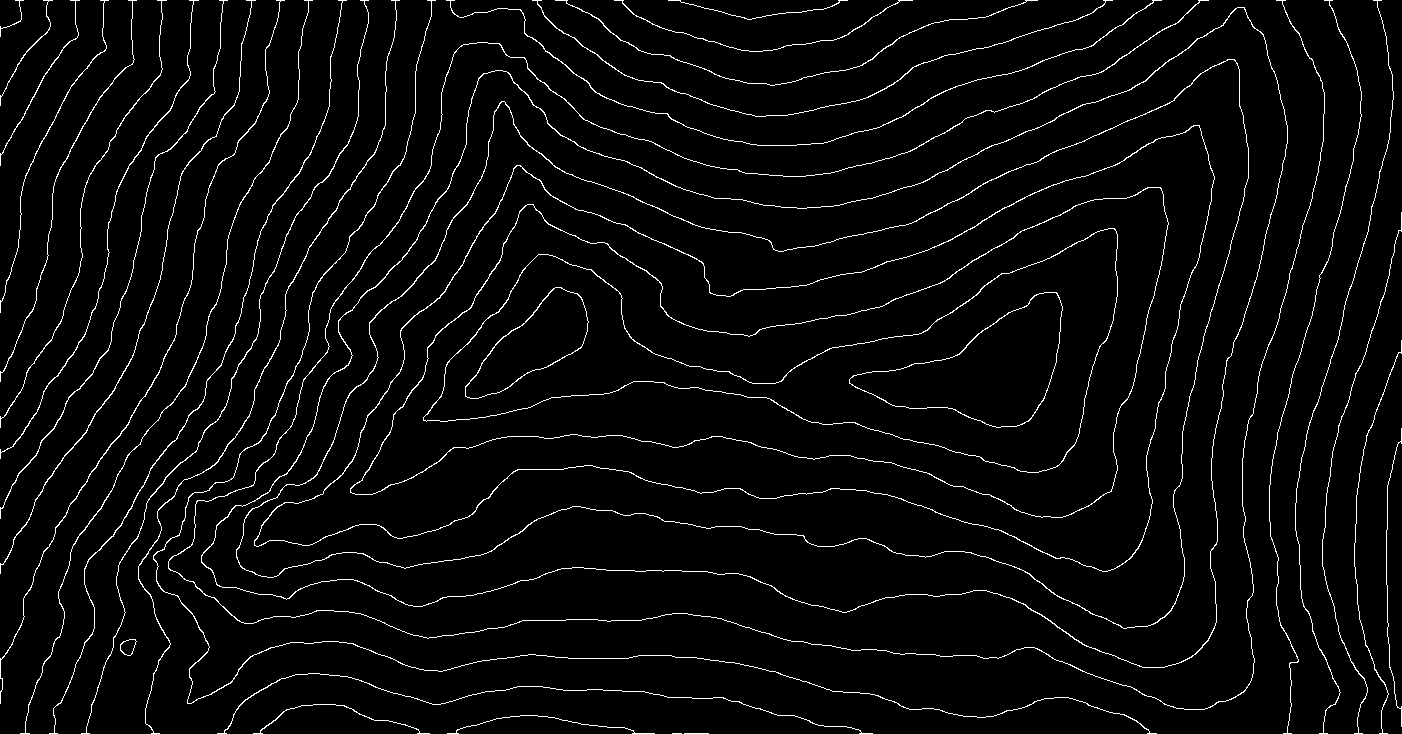
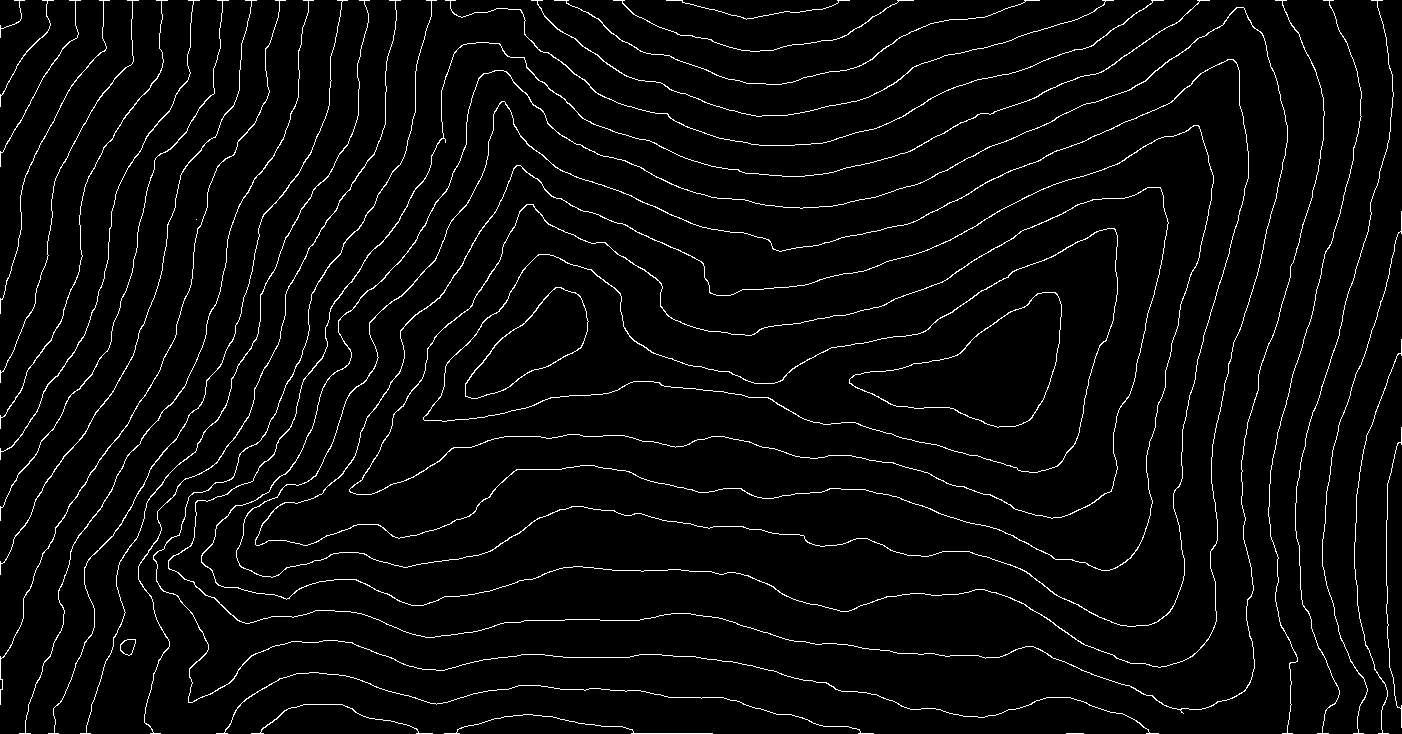
Naprawa błędu z typem

Changed region(s): [[0.4294, 0.9891, 0.4601, 1.0]]

diff --git a/LoadingImages/src/windowManager.cpp b/LoadingImages/src/windowManager.cpp
@@ -7,11 +7,17 @@
 #include "opencv2/opencv.hpp"
 
 cv::Scalar WindowManager::pickColorWindow(cv::Mat &img){
+  cv::cvtColor(img, img, cv::COLOR_BGRA2BGR);
   this->img = img;
   cv::namedWindow("pickColorWindow");
   cv::setMouseCallback("pickColorWindow", getColor, this);
-  cv::imshow("pickColorWindow", img);
-  cv::waitKey(0);
+  while (true){
+    cv::imshow("pickColorWindow", img);
+
+    int key = cv::waitKey(10);
+    if (key == 27)
+        break;
+  }
   cv::destroyAllWindows();
   return this->pickedColor;
 }
